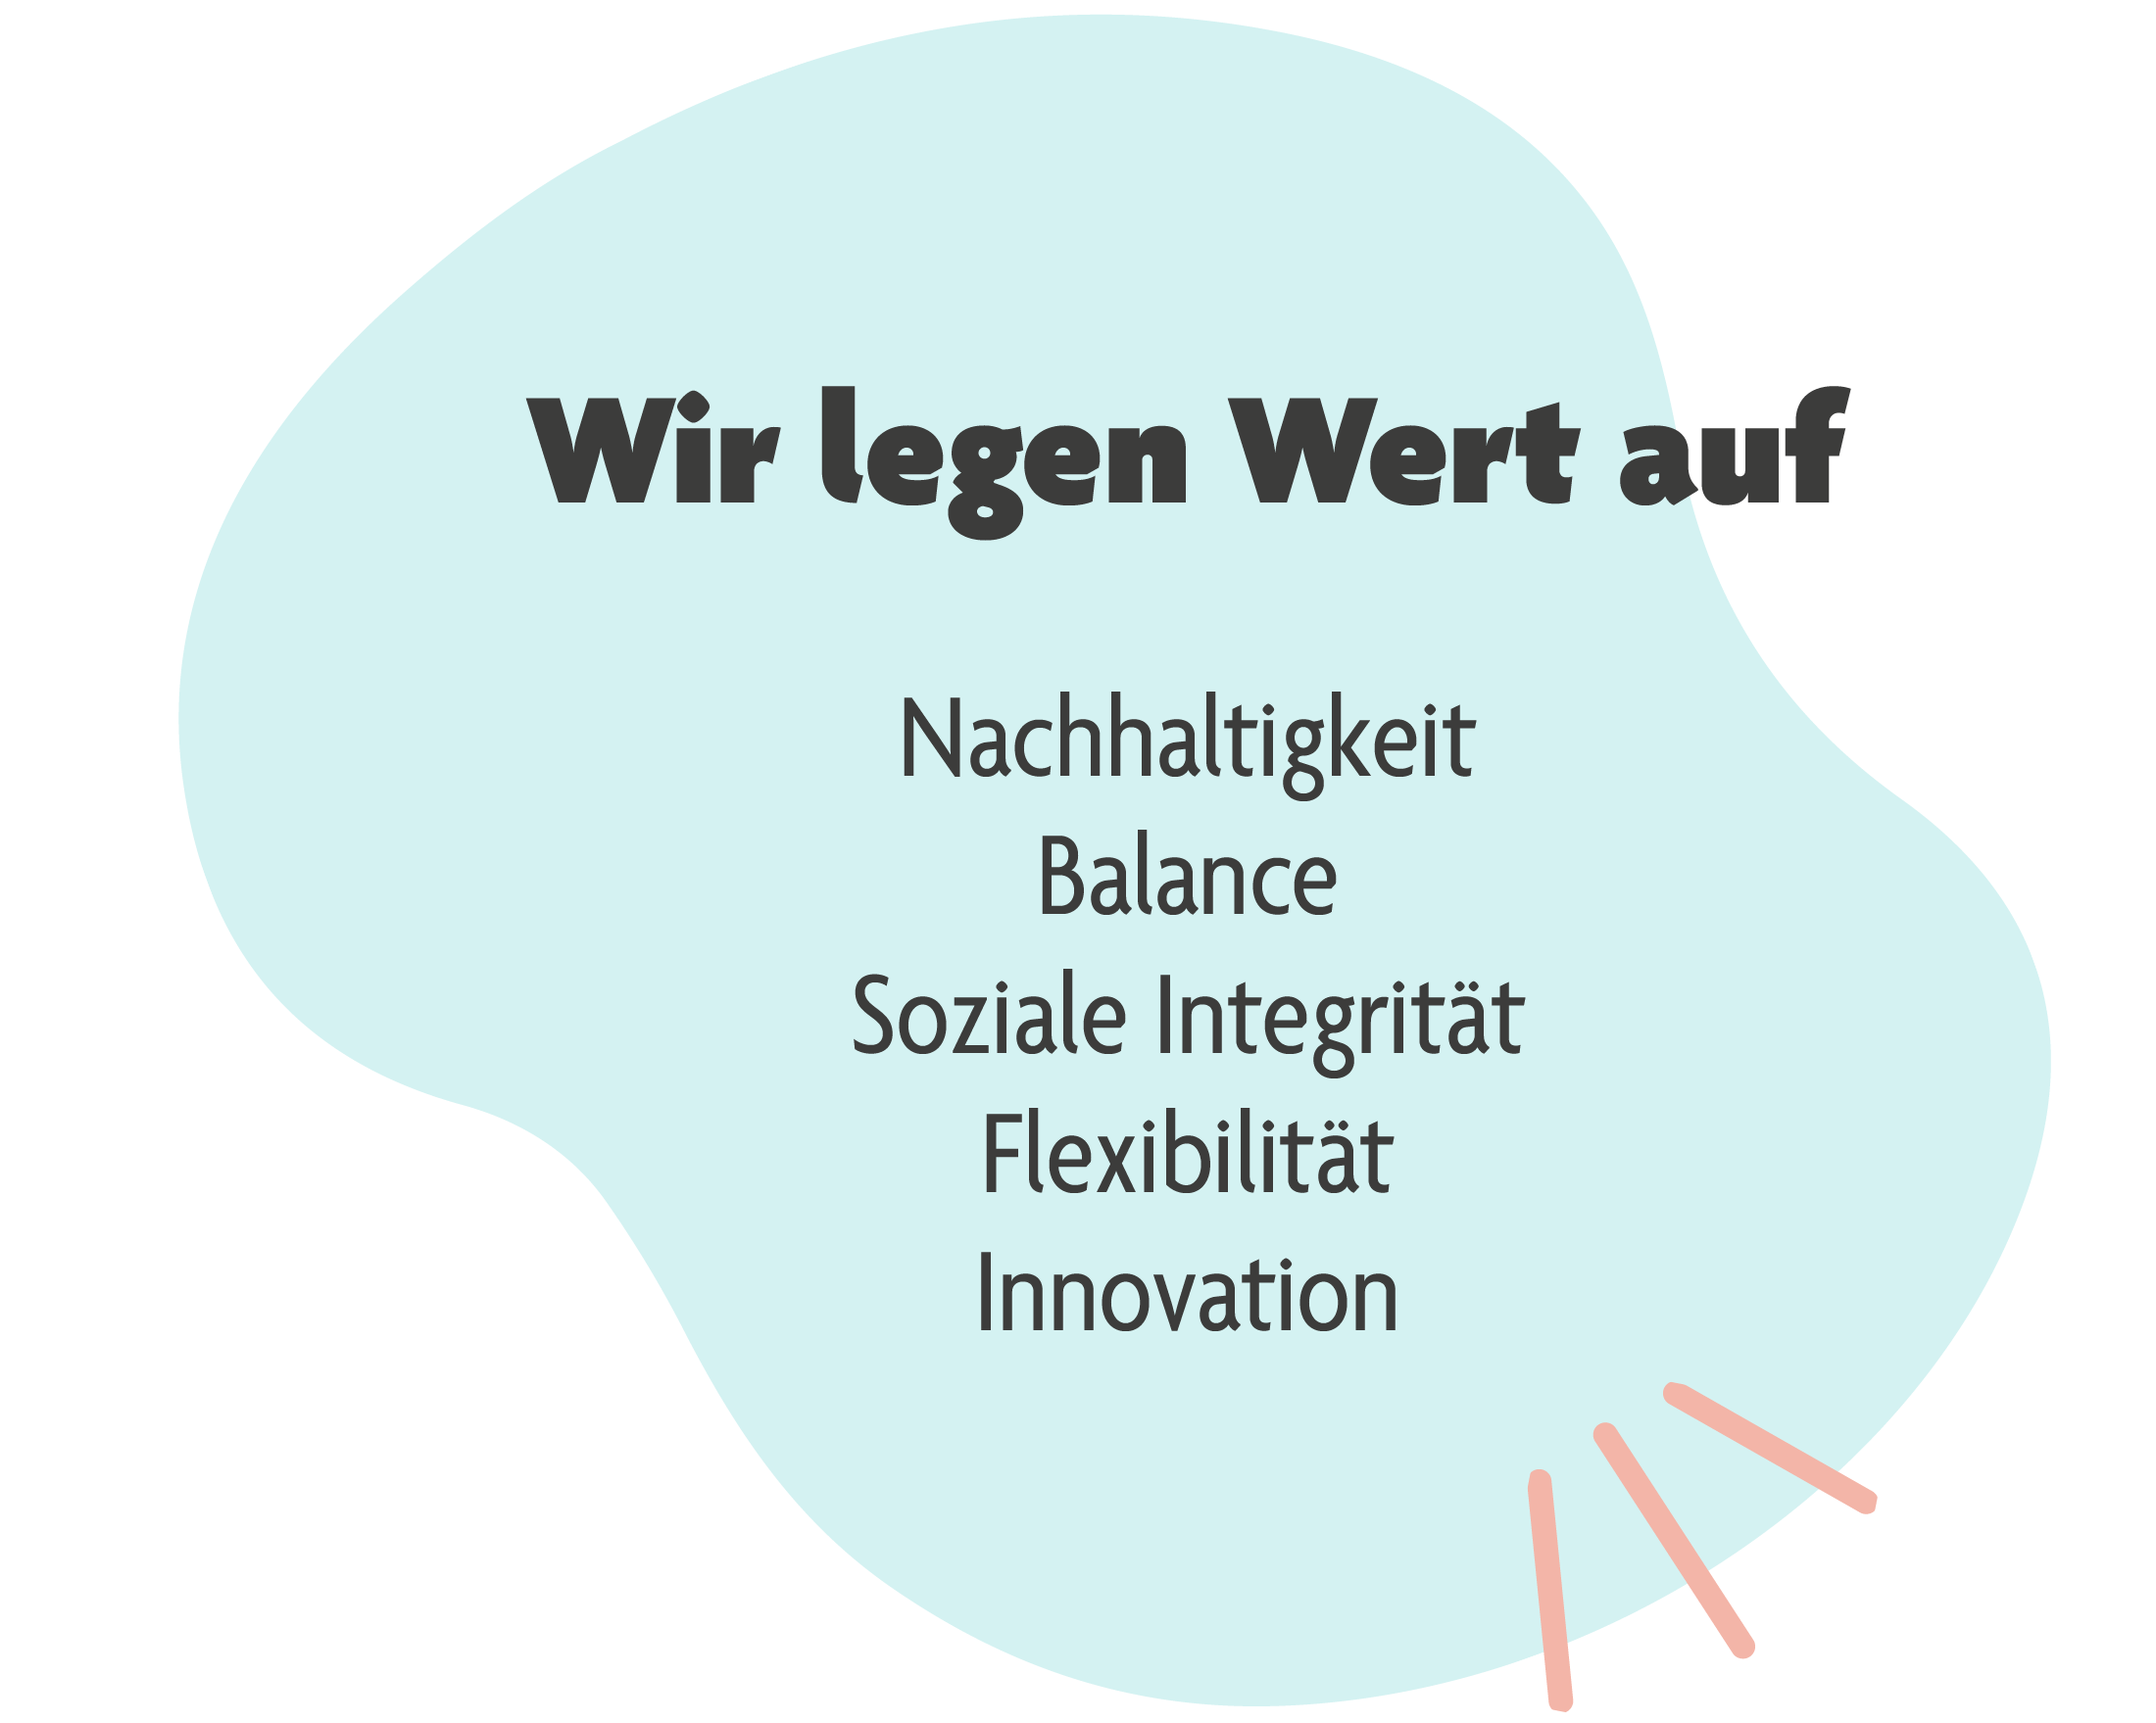
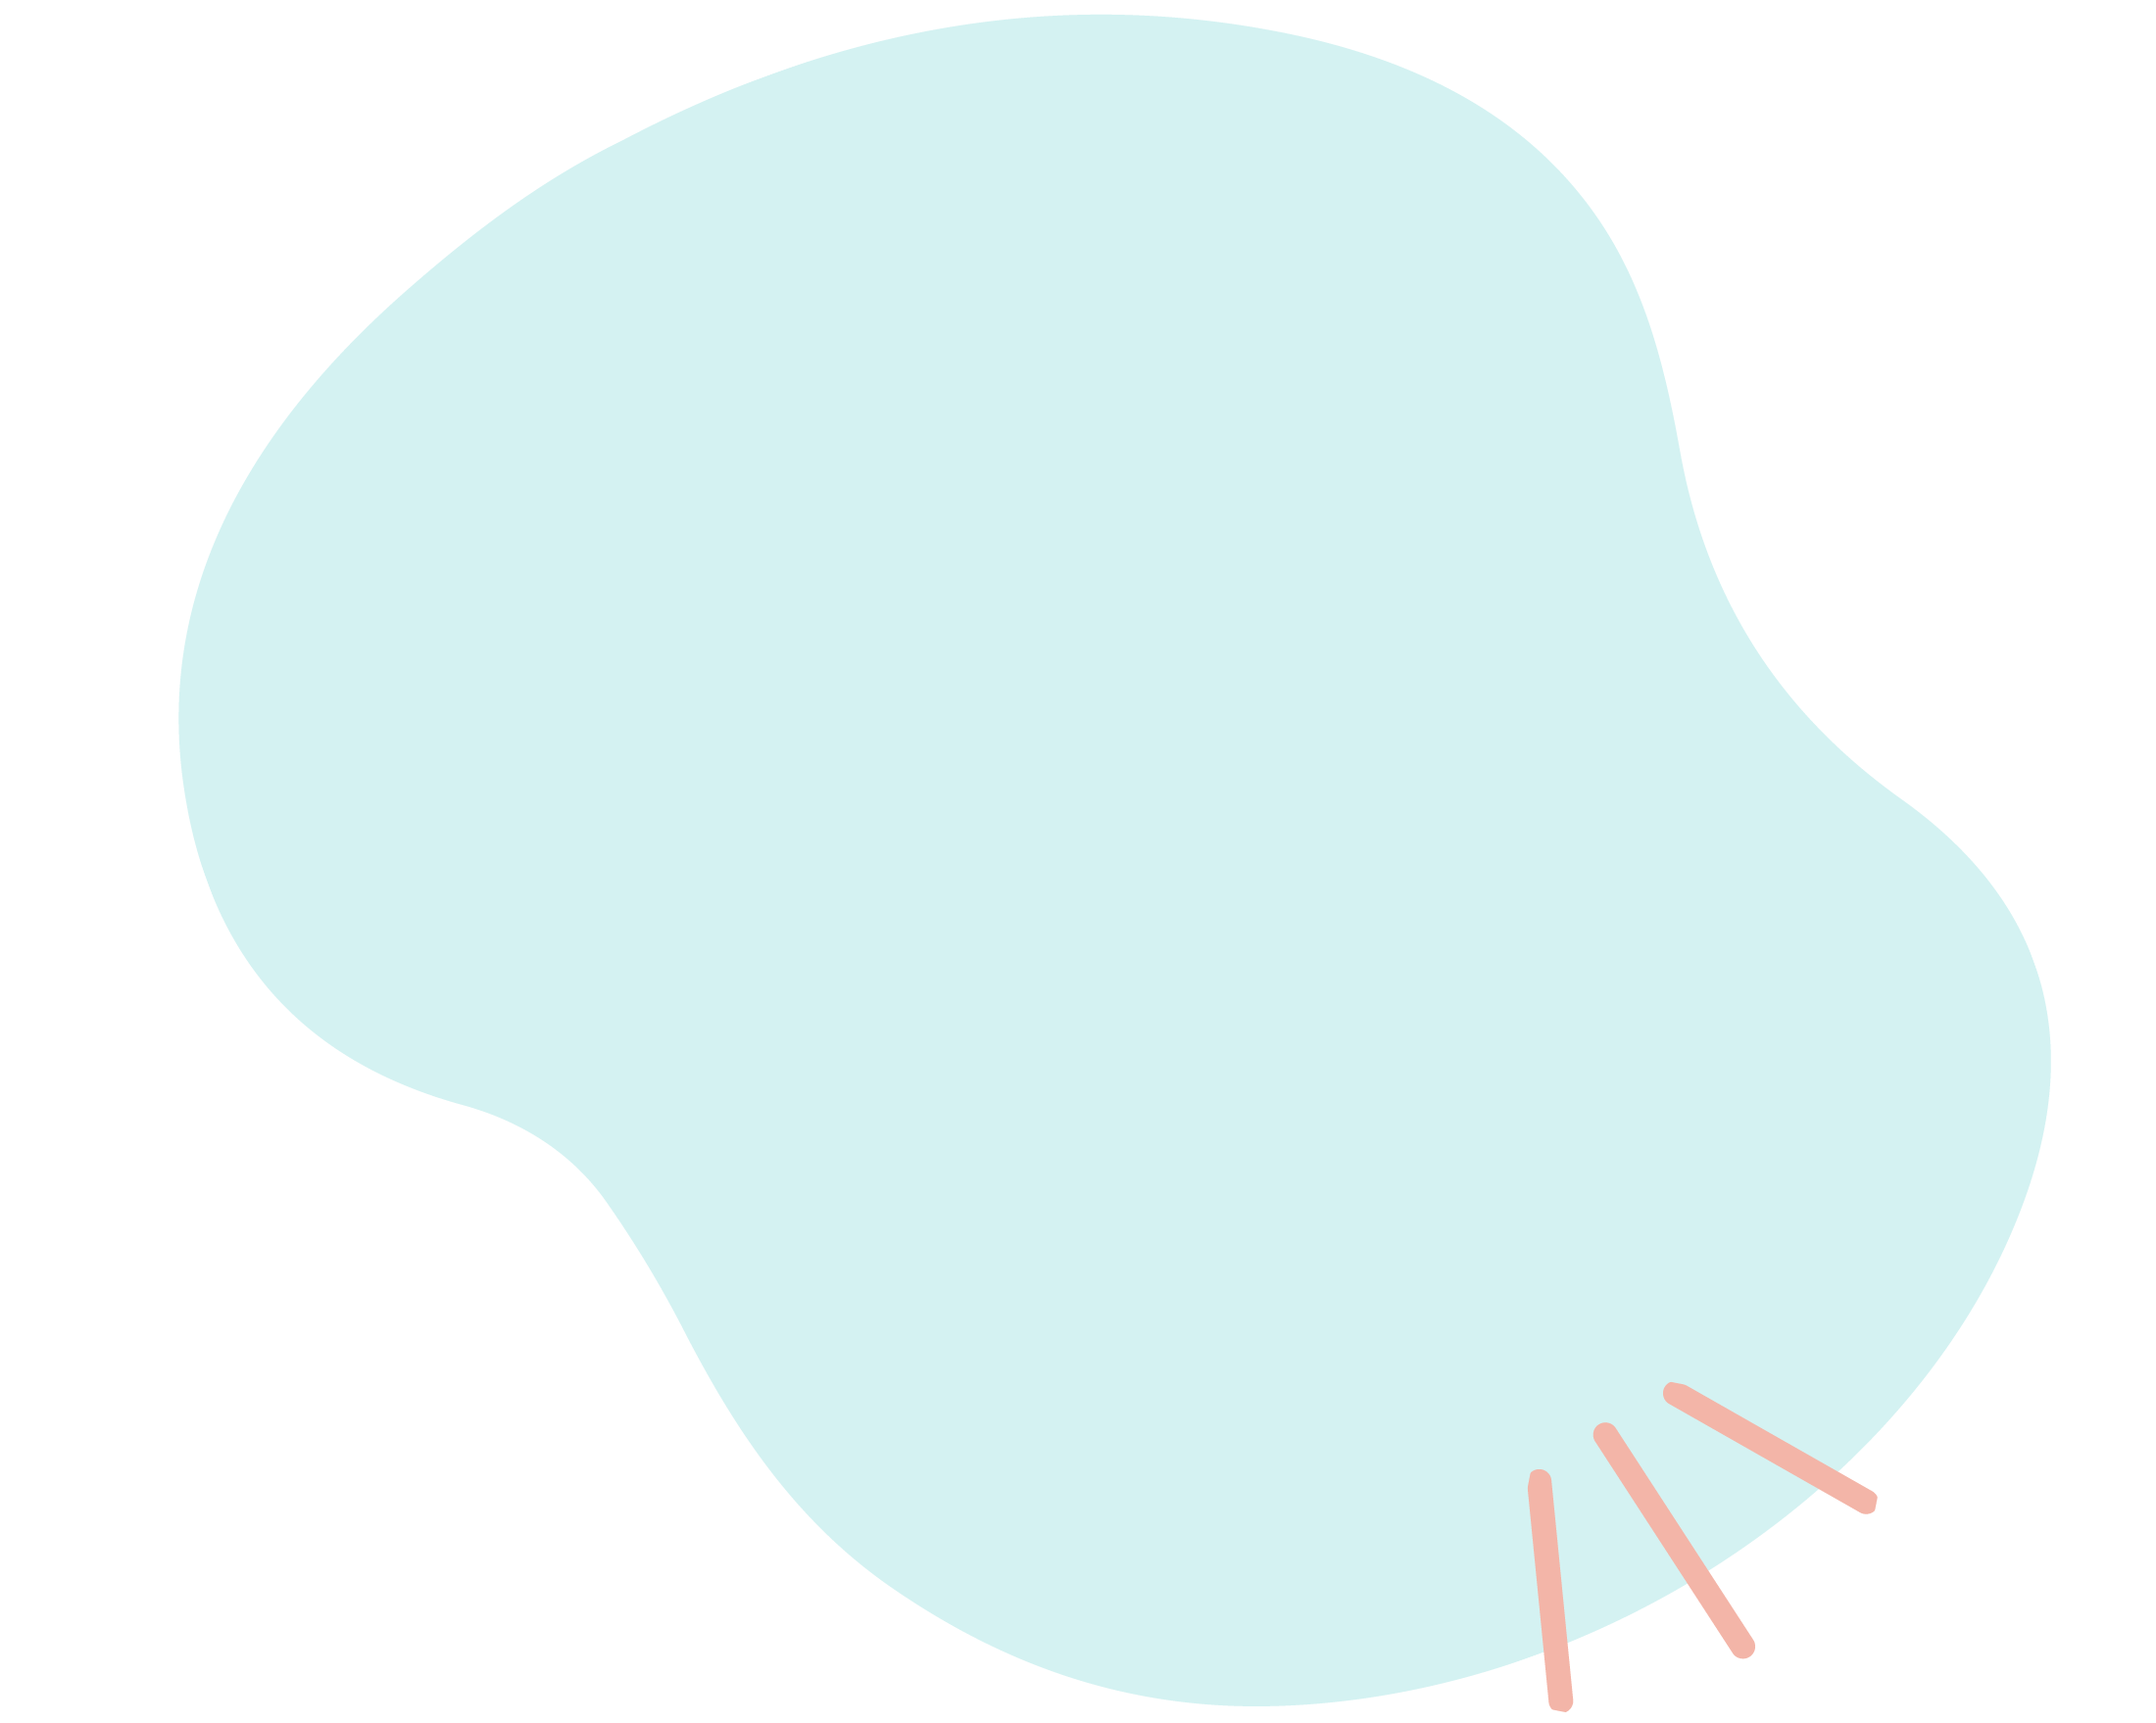
Über Quokka

diff --git a/ueber-quokka.html b/ueber-quokka.html
@@ -63,66 +63,76 @@
 
             <!-- Einzlenes Team-Mitglied Ammar Jusufi-->
             <div class="team-member">
-                <img src="img/ueberquokka/ammar-jusufi.png" alt="Ammar Jusufi"> <!-- Bild des Mitarbeiters -->
+                <div class="team-member-content">
+                    <img src="img/ueberquokka/ammar-jusufi.png" alt="Ammar Jusufi"> <!-- Bild des Mitarbeiters -->
 
-                <div class="icons"> <!-- Bereich für die Kontakticons-->
-                    <a href="tel:+41796682754"><img src="img/ueberquokka/phone-icon.png" alt="Telefon"></a> <!-- Telefon-Icon mit Link-->
+                    <div class="icons-left"> <!-- Bereich für die Kontakticons-->
+                        <a href="tel:+41796682754"><img src="img/ueberquokka/phone-icon.png" alt="Telefon"></a> <!-- Telefon-Icon mit Link-->
 
-                    <a href="mailto:ammar@quokka.com"><img src="img/ueberquokka/email-icon.png" alt="E-Mail"></a> <!-- E-Mail-Icon mit Link -->
+                        <a href="mailto:ammar@quokka.com"><img src="img/ueberquokka/email-icon.png" alt="E-Mail"></a> <!-- E-Mail-Icon mit Link -->
 
-                    <a href="https://linkedin.com/in/ammar"><img src="img/ueberquokka/linkedin-icon.png" alt="LinkedIn"></a> <!-- LinkedIn-Icon mit Link -->
+                        <a href="https://linkedin.com/in/ammar"><img src="img/ueberquokka/linkedin-icon.png" alt="LinkedIn"></a> <!-- LinkedIn-Icon mit Link -->
+                    </div>
                 </div>
-             </div>
+            </div>
             
             <!-- Einzlenes Team-Mitglied Lou Gmür-->
              <div class="team-member">
-                <img src="img/ueberquokka/lou-gmuer.png" alt="Lou Gmür"> <!-- Bild des Mitarbeiters -->
+                <div class="team-member-content">
+                    <img src="img/ueberquokka/lou-gmuer.png" alt="Lou Gmür"> <!-- Bild des Mitarbeiters -->
 
-                <div class="icons"> <!-- Bereich für die Kontakticons-->
-                    <a href="tel:+41796682754"><img src="img/ueberquokka/phone-icon.png" alt="Telefon"></a> <!-- Telefon-Icon mit Link-->
+                    <div class="icons"> <!-- Bereich für die Kontakticons-->
+                        <a href="tel:+41796682754"><img src="img/ueberquokka/phone-icon.png" alt="Telefon"></a> <!-- Telefon-Icon mit Link-->
 
-                    <a href="mailto:lou@quokka.com"><img src="img/ueberquokka/email-icon.png" alt="E-Mail"></a> <!-- E-Mail-Icon mit Link -->
+                        <a href="mailto:lou@quokka.com"><img src="img/ueberquokka/email-icon.png" alt="E-Mail"></a> <!-- E-Mail-Icon mit Link -->
 
-                    <a href="https://linkedin.com/in/lou"><img src="img/ueberquokka/linkedin-icon.png" alt="LinkedIn"></a> <!-- LinkedIn-Icon mit Link -->
+                        <a href="https://linkedin.com/in/lou"><img src="img/ueberquokka/linkedin-icon.png" alt="LinkedIn"></a> <!-- LinkedIn-Icon mit Link -->
+                    </div>
                 </div>
              </div>
 
             <!-- Einzlenes Team-Mitglied Angelina Frühwirth-->
             <div class="team-member">
-                <img src="img/ueberquokka/angelina-fruehwirth.png" alt="Angelina Frühwirth"> <!-- Bild des Mitarbeiters -->
+                <div class="team-member-content">
+                    <img src="img/ueberquokka/angelina-fruehwirth.png" alt="Angelina Frühwirth"> <!-- Bild des Mitarbeiters -->
 
-                <div class="icons"> <!-- Bereich für die Kontakticons-->
-                    <a href="tel:+41796682754"><img src="img/ueberquokka/phone-icon.png" alt="Telefon"></a> <!-- Telefon-Icon mit Link-->
+                    <div class="icons-left"> <!-- Bereich für die Kontakticons-->
+                        <a href="tel:+41796682754"><img src="img/ueberquokka/phone-icon.png" alt="Telefon"></a> <!-- Telefon-Icon mit Link-->
 
-                    <a href="mailto:angelina@quokka.com"><img src="img/ueberquokka/email-icon.png" alt="E-Mail"></a> <!-- E-Mail-Icon mit Link -->
+                        <a href="mailto:angelina@quokka.com"><img src="img/ueberquokka/email-icon.png" alt="E-Mail"></a> <!-- E-Mail-Icon mit Link -->
 
-                    <a href="https://linkedin.com/in/angelina"><img src="img/ueberquokka/linkedin-icon.png" alt="LinkedIn"></a> <!-- LinkedIn-Icon mit Link -->
+                        <a href="https://linkedin.com/in/angelina"><img src="img/ueberquokka/linkedin-icon.png" alt="LinkedIn"></a> <!-- LinkedIn-Icon mit Link -->
+                    </div>
                 </div>
              </div>
 
             <!-- Einzlenes Team-Mitglied Robin Luijten-->
             <div class="team-member" class="">
-                <img src="img/ueberquokka/robin-luijten.png" alt="Robin Luijten"> <!-- Bild des Mitarbeiters -->
+                <div class="team-member-content">
+                    <img src="img/ueberquokka/robin-luijten.png" alt="Robin Luijten"> <!-- Bild des Mitarbeiters -->
 
-                <div class="icons"> <!-- Bereich für die Kontakticons-->
-                    <a href="tel:+41796682754"><img src="img/ueberquokka/phone-icon.png" alt="Telefon"></a> <!-- Telefon-Icon mit Link-->
+                    <div class="icons"> <!-- Bereich für die Kontakticons-->
+                        <a href="tel:+41796682754"><img src="img/ueberquokka/phone-icon.png" alt="Telefon"></a> <!-- Telefon-Icon mit Link-->
 
-                    <a href="mailto:robin@quokka.com"><img src="img/ueberquokka/email-icon.png" alt="E-Mail"></a> <!-- E-Mail-Icon mit Link -->
+                        <a href="mailto:robin@quokka.com"><img src="img/ueberquokka/email-icon.png" alt="E-Mail"></a> <!-- E-Mail-Icon mit Link -->
 
-                    <a href="https://linkedin.com/in/robin"><img src="img/ueberquokka/linkedin-icon.png" alt="LinkedIn"></a> <!-- LinkedIn-Icon mit Link -->
+                        <a href="https://linkedin.com/in/robin"><img src="img/ueberquokka/linkedin-icon.png" alt="LinkedIn"></a> <!-- LinkedIn-Icon mit Link -->
+                    </div>
                 </div>
              </div>
 
              <!-- Einzelnes Team-Mitglied Melina Gasser-->
              <div class="team-member"> <!-- Container für ein Teammitglied -->
-                <img src="img/ueberquokka/melina-gasser.png" alt="Melina Gasser"> <!-- Bild des Mitarbeiters -->
+                <div class="team-member-content"> 
+                    <img src="img/ueberquokka/melina-gasser.png" alt="Melina Gasser"> <!-- Bild des Mitarbeiters -->
 
-                <div class="icons"> <!-- Bereich für die Kontakticons-->
-                    <a href="tel:+41796682754"><img src="img/ueberquokka/phone-icon.png" alt="Telefon"></a> <!-- Telefon-Icon mit Link-->
+                    <div class="icons-left"> <!-- Bereich für die Kontakticons-->
+                        <a href="tel:+41796682754"><img src="img/ueberquokka/phone-icon.png" alt="Telefon"></a> <!-- Telefon-Icon mit Link-->
 
-                    <a href="mailto:melina@quokka.com"><img src="img/ueberquokka/email-icon.png" alt="E-Mail"></a> <!-- E-Mail-Icon mit Link -->
+                        <a href="mailto:melina@quokka.com"><img src="img/ueberquokka/email-icon.png" alt="E-Mail"></a> <!-- E-Mail-Icon mit Link -->
 
-                    <a href="https://linkedin.com/in/melina"><img src="img/ueberquokka/linkedin-icon.png" alt="LinkedIn"></a> <!-- LinkedIn-Icon mit Link -->
+                        <a href="https://linkedin.com/in/melina"><img src="img/ueberquokka/linkedin-icon.png" alt="LinkedIn"></a> <!-- LinkedIn-Icon mit Link -->
+                    </div>
                 </div>
              </div>
          </div>
@@ -143,11 +153,32 @@
         <!-- Zizat Section-->
          <div class="quote-section"> <!-- Container für die Zitate-->
             <div class="quote"> <!-- Einzelnes Zitat-->
-                <img src="img/ueberquokka/quote-1.png" alt="Zitat 1"> <!-- Bild für das Zitat-->
+                <div class="quote-background">
+                  <img src="img/ueberquokka/quote-1.png" alt="Zitat Hintergrund"> <!-- Bild für das Zitat-->
+                </div>
+                <p class="quote-text-ueberquokka"> 
+                    “Wer Quokka regelmässig verwendet,<br>
+                    legt Wert auf eine ausgewogene <br>
+                    Work-Life-Balance. Dadurch wird <br>
+                    die eigene mentale Gesundheit<br>
+                    nachhaltig gestärkt.”
+                </p>
             </div>
 
             <div class="quote"> <!-- Zweites Zitat -->
-                <img src="img/ueberquokka/quote-2.png" alt="Zitat 2"> <!-- Bild für das Zitat -->
+                <div class="quote-background">
+                    <img src="img/ueberquokka/quote-2.png" alt="Zitat 2"> <!-- Bild für das Zitat -->
+                </div>
+                <p class="quote-title">
+                    Wir legen Wert auf
+                </p>
+                <p class="quote-text-ueberquokka">
+                    Nachhaltigkeit<br>
+                    Balance<br>
+                    Soziale Integrität<br>
+                    Flexibilitä<br>
+                    Innovation
+                </p>
             </div>
          </div>
     </main>

diff --git a/_css/quokkastyle.css b/_css/quokkastyle.css
@@ -580,6 +580,7 @@ form button:hover {
 }
 
 
+
 .ueberquokka-container{
     width: 90%;
     margin: 0 auto;
@@ -627,25 +628,54 @@ form button:hover {
     margin-bottom: 20px;
 }
 
+.team-member-content{
+    position: relative;
+    display: inline-block;
+    width: 100%;
+    text-align: center;
+}
+
 .team-member img {
     width: 100%;
     max-width: 1000px;
     margin: 0 auto;
     display: block; 
     border-radius: 10px;
+    position: relative; /* Ermöglicht die Überlagerung durch die Icons */
 }
 
 .icons {
-    position: absolute; 
-    bottom: -20px;
-    left: 50%;
+    position: absolute;
+    bottom: 200px;
+    left: 60%;
     transform: translateX(-50%);
     display: flex;
     gap: 10px;
-    width: 120px;
-    height: 120px;
-    margin-top: 10px;
-    margin-bottom: 200px;
+    justify-content: center;
+    z-index: 10;
+}
+
+.icons-left {
+    position: absolute;
+    bottom: 200px;
+    left: 45%;
+    transform: translateX(-50%);
+    display: flex;
+    gap: 10px;
+    justify-content: center;
+    z-index: 10;
+}
+
+.icons img {
+    width: 30px;
+    height: 30px;
+    padding: 5px;
+}
+
+.icons-left img {
+    width: 30px;
+    height: 30px;
+    padding: 5px;
 }
 
 .icons img:hover {
@@ -661,11 +691,56 @@ form button:hover {
    margin-top: 40px;
 }
 
-.quote img {
-    width: 100%;
+.quote {
+    position: relative;
+    text-align: center;
     max-width: 1000px;
+    width: 100%;
+    margin: 20px auto;
+}
+
+.quote-background img {
+    width: 100%;
     display: block;
-    margin: 0 auto;
+}
+
+.quote-title {
+    font-size: clamp(1.5rem, 2vw, 4rem); /* Dynamische Schriftgröße */
+    font-weight: bolder;
+    font-style: normal;
+    color: #333;
+    text-align: center;
+    position: absolute;
+    top: 20%;
+    left: 50%;
+    transform: translate(-50% -50%);
+    line-height: 1.4rem;
+    width: 80%;
+}
+
+.quote-text-ueberquokka {
+    font-size: clamp(1.2rem, 1.8vw, 3rem); /* Dynamische Schriftgröße */
+    font-weight: lighter;
+    color: #333;
+    position: absolute;
+    top: 50%;
+    left: 50%;
+    transform: translate(-50%, -50%);
+    width: 80%;
+    line-height: clamp(1.5rem, 2.5vw, 4rem); /* Dynamisches Zeilenverhältnis */
+    text-align: center;
+}
+
+@media (max-width: 600px) {
+    .quote-title {
+        font-size: 2.5rem;
+        top: 80px;
+    }
+
+    .quote-text-ueberquokka {
+        font-size: 2rem;
+        line-height: 2.5rem;
+    }
 }
 
 .quokka-title-image img {
